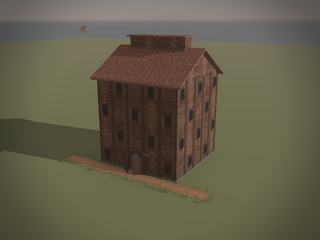
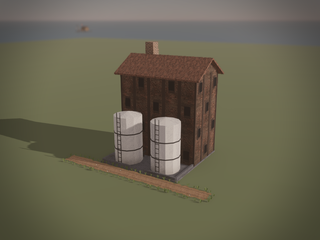
Fase 78: tanques da usina a petróleo
A usina a petróleo deixa a forma da usina a carvão (o galpão com o
lanternim) e ganha a silhueta TANKFARM: o pátio da frente com dois
tanques verticais (BuildingKit._tankfarm, _tank, tank_layout) com teto
em cone, anéis de ferro, escada e tubo até o galpão, dentro de um dique
baixo com a passagem até a porta; o galpão fica atrás. As peças vão no
extra do _build (no tool, já indexado, sumiam). Fotos da usina a
petróleo e do zoológico (cercas da Fase 77) refeitas. Só apresentação.

Changed region(s): [[0.25, 0.1167, 0.6875, 0.7583], [0.0, 0.5542, 0.2188, 0.6708]]

diff --git a/AGENTS.md b/AGENTS.md
@@ -1954,6 +1954,12 @@ Regras que já custaram investigação:
 - **Plano** em `docs/plano_fase77.md`. `ExhibitModels.pen_dressing` (o chão do bicho e o cocho, por cercado ocupado),
   `trough_rect` e `PenWalk.blocked`/`path_clear` (o bicho desvia do cocho pelo teste dos eixos separadores).
 
+### Tanques da usina a petróleo (Fase 78, nossa)
+
+- **Plano** em `docs/plano_fase78.md`. `Silhouette.TANKFARM` (no fim do enum) na usina a petróleo: pátio da frente com
+  dois tanques (`BuildingKit._tankfarm`, `_tank`, `tank_layout`), dique, escada e tubo; galpão atrás. Peças geradas no
+  código vão no `extra` do `_build` (no `tool`, já indexado, somem).
+
 Todo asset ou addon novo entra em `CREDITS.md` (autor, link, licença, arquivos). O que
 faltar vira placeholder e entra em `assets/TODO_ASSETS.md`. Addon só na fase que o usa,
 atrás de um script adaptador próprio, depois de confirmar a versão compatível com o 4.7.
@@ -2042,6 +2048,7 @@ atrás de um script adaptador próprio, depois de confirmar a versão compatíve
 | 75 — Bichos no cercado (nossa) | **feita em 28/10/2026, a pedido do dono**: os bichos do zoológico andam e viram dentro do cercado sem atravessar a cerca (o elefante fica menor para caber); as araras e as peças do museu ficam paradas; só apresentação; plano em `docs/plano_fase75.md` |
 | 76 — Fumaça do trem (nossa) | **feita em 28/10/2026, a pedido do dono**: a locomotiva solta fumaça pela chaminé, cheia andando e fraca esperando nas pontas, deitando no vento e pelo nível gráfico; só apresentação; plano em `docs/plano_fase76.md` |
 | 77 — Chão e bebedouro no cercado (nossa) | **feita em 28/10/2026, a pedido do dono**: cada cercado ocupado ganha o chão do bicho (areia ou capim) e um bebedouro, de que os bichos desviam; a ideia de pôr as partículas no rascunho da primeira vez foi medida e descartada; só apresentação; plano em `docs/plano_fase77.md` |
+| 78 — Tanques da usina a petróleo (nossa) | **feita em 28/10/2026, a pedido do dono**: a usina a petróleo deixa a forma da usina a carvão e ganha o pátio com dois tanques, dique, escada e tubo até o galpão; foto do menu refeita; só apresentação; plano em `docs/plano_fase78.md` |
 
 Pendências já vistas para fases futuras:
 

diff --git a/docs/plano_fase78.md b/docs/plano_fase78.md
@@ -1,0 +1,38 @@
+# Plano da Fase 78 — Tanques da usina a petróleo
+
+**Estado: feita em 28/10/2026, a pedido do dono** ("pode seguir"; proposta deixada de fora nas Fases 70 e 73: "modelo da
+usina a petróleo"). Só apresentação: a simulação, o save, o lote e as assinaturas não mudam.
+
+## O que entrou
+
+- **Silhueta nova** `BuildingDef.Silhouette.TANKFARM` (no fim do enum: os números dos `.tres` não mudam), na
+  `oil_power_station.tres`. Até aqui a usina a petróleo tinha a mesma forma da usina a carvão (o galpão alto com o
+  lanternim); agora as duas se distinguem de longe.
+- **O pátio dos tanques** (`BuildingKit._tankfarm`, as duas fileiras da frente, `TANKFARM_ROWS`): dois tanques verticais
+  de 12 faces (`_tank`, `tank_layout`: raio pelo pátio, até 5,5 m de costado) com o teto em cone baixo, dois anéis de
+  ferro, a escada na frente e o tubo num suporte até a parede do galpão; um dique baixo de pedra em volta, com a
+  passagem até a porta no meio da frente. O galpão fica nas fileiras de trás, com telhado de duas águas.
+- A usina a carvão continua com o lanternim. A foto da usina a petróleo no menu foi refeita.
+
+## Achado
+
+- O `SurfaceTool` principal do `_build` recebe as peças do kit já indexadas; vértice solto posto nele depois fica fora
+  do índice e não aparece (a primeira captura mostrou só os anéis e as escadas). Por isso os tanques vão no `extra`,
+  como as outras peças geradas no código.
+
+## Números
+
+- Benchmark: o mundo do benchmark não tem usina a petróleo; neutra (`docs/benchmark.md`). O material é o do kit
+  (nenhuma pipeline nova).
+
+## Como testar
+
+- `tests/presentation/test_phase78_tank_farm.gd`: a usina a petróleo com o pátio e a de carvão sem; os tanques dentro
+  do pátio e do lote, o caminho da porta livre, mais altos que o dique e mais baixos que o galpão, iguais e simétricos;
+  sem pátio, sem tanques.
+- Capturas: `tools/capture_phase78.tscn -- <pasta>` (no mundo plano, a usina a petróleo ao lado da de carvão, de perto e
+  de longe; em `F:\ferramentas\capturas\fase78`).
+
+## Fica de fora (proposta à espera do dono)
+
+- O tanque ao lado do poço, o nível do óleo nos tanques pelo estoque, o barulho da bomba e da usina.

diff --git a/docs/benchmark.md b/docs/benchmark.md
@@ -1295,3 +1295,9 @@ construir com a ilha cheia 16,5 ms, 2755 objetos e 1117 draw calls (iguais aos d
 Área de trabalho escondida, alto, semente 1840 (v3). O mundo do benchmark não tem zoológico. Máquina no estado lento:
 GPU 23,4 ms, dia inteiro 34,4 FPS (1% low 18,8, pior quadro 112 ms), tick médio 1,34 ms, construir com a ilha cheia
 16,4 ms, 2755 objetos e 1117 draw calls (iguais aos das Fases 75 e 76). Neutra.
+
+## Fase 78 — tanques da usina a petróleo (28/10/2026)
+
+Área de trabalho escondida, alto, semente 1840 (v3). O mundo do benchmark não tem usina a petróleo. Máquina no estado
+lento: GPU 24,1 ms, dia inteiro 33,8 FPS (1% low 17,2, pior quadro 131 ms), tick médio 1,32 ms, construir com a ilha
+cheia 15,8 ms, 2755 objetos e 1117 draw calls (iguais aos das Fases 75 a 77). Neutra.
